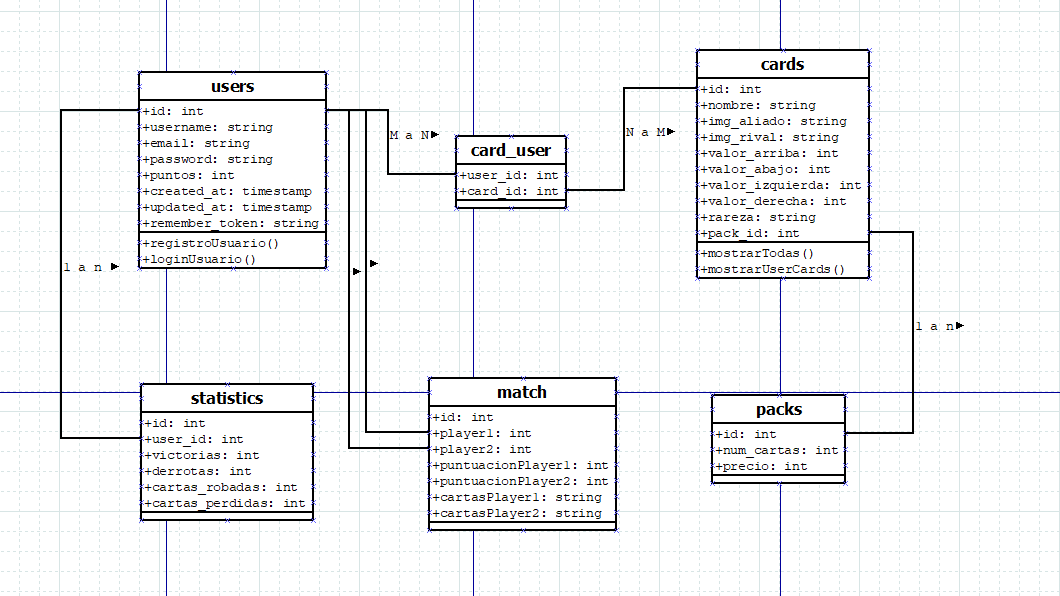
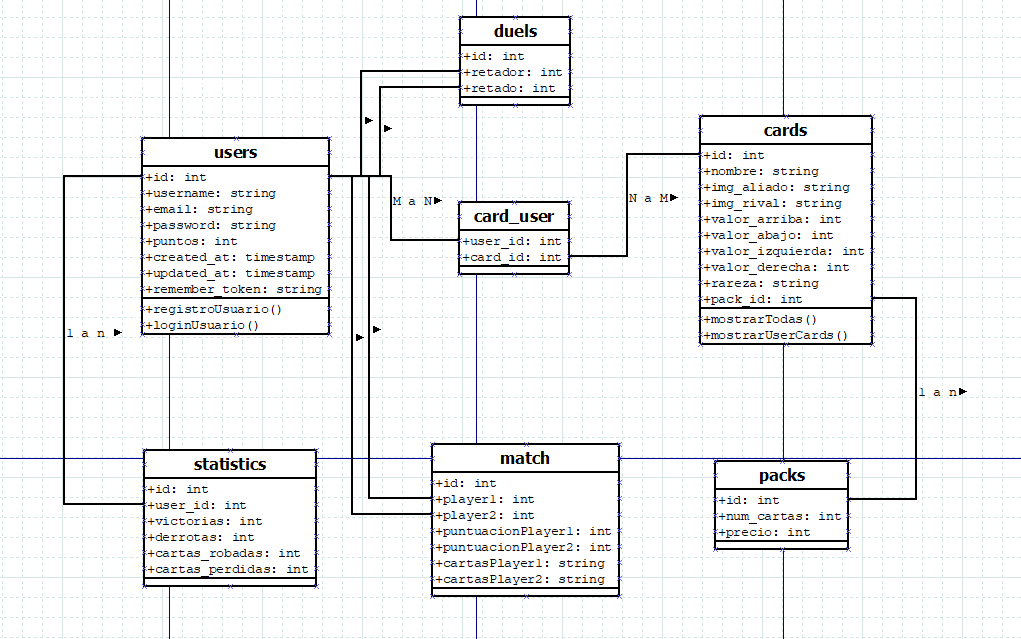
create duel

diff --git a/triple-triad-kh-angular/src/app/app.component.html b/triple-triad-kh-angular/src/app/app.component.html
@@ -4,7 +4,7 @@
     <nav class="navbar navbar-expand-lg navbar-dark navbar-survival101">
         <div class="container-fluid">
             <a class="navbar-brand" href="#">
-                <img src="../assets/images/tt_logo.png" width="45%" [routerLink]="['']" style="cursor: pointer;">
+                <img src="../assets/images/tt_logo.png" width="160px" [routerLink]="['']" style="cursor: pointer;">
             </a>
             <button class="navbar-toggler" type="button" data-toggle="collapse" data-target="#navbarColor02" aria-controls="navbarColor02" aria-expanded="false" aria-label="Toggle navigation">
             <span class="navbar-toggler-icon"></span>
@@ -12,39 +12,39 @@
 
             <div class="collapse navbar-collapse" id="navbarColor02">
                 <ul class="navbar-nav mr-auto">
-                    <li class="nav-item active">
+                    <li class="nav-item active enlace">
                         <a class="nav-link" [routerLink]="['']">Inicio<span class="sr-only">(current)</span></a>
                     </li>
-                    <li class="nav-item">
-                        <a class="nav-link" *ngIf="identity" [routerLink]="['cartas']">Cartas</a>
+                    <li class="nav-item enlace" *ngIf="identity">
+                        <a class="nav-link" [routerLink]="['cartas']">Cartas</a>
                     </li>
-                    <li class="nav-item">
-                        <a class="nav-link" *ngIf="identity" href="#">Tienda</a>
+                    <li class="nav-item enlace" *ngIf="identity">
+                        <a class="nav-link" href="#">Tienda</a>
                     </li>
-                    <li class="nav-item">
+                    <li class="nav-item enlace">
                         <a class="nav-link" [routerLink]="['reglas']">Reglas</a>
                     </li>
                 </ul>
 
-                <ul class="navbar-nav mr-auto" *ngIf="!identity">
-                    <li class="nav-item">
+                <ul class="navbar-nav" *ngIf="!identity">
+                    <li class="nav-item enlace">
                         <a class="nav-link" [routerLink]="[ 'login'] ">Login</a>
                     </li>
-                    <li class="nav-item">
+                    <li class="nav-item enlace">
                         <a class="nav-link" [routerLink]="[ 'register']">Registro</a>
                     </li>
                 </ul>
 
-                <ul class="navbar-nav mr-auto" *ngIf="identity">
+                <ul class="navbar-nav" *ngIf="identity">
 
-                    <li class="nav-item">
+                    <li class="nav-item enlace2">
                         <a class="nav-link"><img src="../assets/images/sun.png" width="18px"> {{identity.puntos}}</a>
                     </li>
 
-                    <li class="nav-item">
+                    <li class="nav-item enlace2">
                         <a class="nav-link" href="#">{{identity.username}}</a>
                     </li>
-                    <li class="nav-item">
+                    <li class="nav-item enlace">
                         <a class="nav-link" [routerLink]="[ 'logout', 1]" onclick="return confirm('¿Seguro que deseas salir?')">
                             Salir
                         </a>

diff --git a/triple-triad-kh-angular/src/app/components/new-game/new-game.component.ts b/triple-triad-kh-angular/src/app/components/new-game/new-game.component.ts
@@ -1,6 +1,7 @@
 import { Component, OnInit } from '@angular/core';
 import { Router, ActivatedRoute, Params } from '@angular/router';
 import { User } from '../../models/user';
+import { Duel } from '../../models/duel';
 import  { UserService } from '../../services/user.service';
 import  { CardService } from '../../services/card.service';
 
@@ -16,6 +17,8 @@ export class NewGameComponent implements OnInit {
   public token;
   public usersList: Array<any>;
   public fiveCards: Array<any>;
+  public selectedObj;
+  public duel: Duel;
 
   constructor(
     private _route: ActivatedRoute,
@@ -26,9 +29,11 @@ export class NewGameComponent implements OnInit {
   ) {
     this.identity = this._userService.getIdentity();
     this.token = this._userService.getToken();
+    this.duel = new Duel (1, 1, 1);
    }
 
   ngOnInit(): void {
+    this.selectedObj = 'Elija un adversario';
     if (this.identity == null) {
       this._router.navigate(['/login']);
     } else {
@@ -37,33 +42,52 @@ export class NewGameComponent implements OnInit {
         (response) => {
           if (response.status == 'success') {
             this.usersList = response.users;
+
           }
         },
         (error) => {
           console.log(error);
         }
-      );
-      
-      //Obtener cartas random para la partida
-      var id = this.identity.sub;
-
-      this._cardService.getFiveRandomCards(id).subscribe(
-        (response) => {
-          if (response.status == 'success') {
-            this.fiveCards = response.fiveCards;
+        );
+        
+        //Obtener cartas random para la partida
+        var id = this.identity.sub;
+        
+        this._cardService.getFiveRandomCards(id).subscribe(
+          (response) => {
+            if (response.status == 'success') {
+              this.fiveCards = response.fiveCards;
+            }
+          },
+          (error) => {
+            console.log(error);
           }
-        },
-        (error) => {
-          console.log(error);
+          );
+          
         }
-      );
+      }
       
-    }
-
-
-
-
-
+      onChangeObj(newObj) {
+        this.selectedObj = newObj;
   }
+
+  retar(){
+    var retador = this.identity.sub;
+    var retado = this.selectedObj.id;
+
+    this.duel.retador = retador;
+    this.duel.retado = retado;
+    this._userService.createDuel(this.duel).subscribe(
+      (response) => {
+        if (response.status == 'success') {
+          console.log("victory");
+        }
+      },
+      (error) => {
+        console.log(error);
+      }
+    );
+  }
+
 
 }

diff --git a/triple-triad-kh-angular/src/app/services/user.service.ts b/triple-triad-kh-angular/src/app/services/user.service.ts
@@ -1,8 +1,9 @@
 import { Injectable } from '@angular/core';
-import { HttpClient, HttpHeaders } from '@angular/common/http';
+import { HttpClient, HttpHeaders, HttpParams } from '@angular/common/http';
 import { Observable } from 'rxjs';
 import { GLOBAL } from './global';
 import { User } from '../models/user';
+import { Duel } from '../models/duel';
 
 @Injectable()
 export class UserService{
@@ -65,5 +66,26 @@ export class UserService{
         let headers = new HttpHeaders().set('Content-Type', 'application/x-www-form-urlencoded');
         
         return this._http.get(this.url + 'usersList', {headers: headers});
+    }
+
+    createDuel(duel): Observable<any>{
+        
+        let json1 = JSON.stringify(duel.retador);
+        let json2 = JSON.stringify(duel.retado);
+        let retador = json1;
+        let retado = json2;
+
+        
+        let headers = new HttpHeaders().set('Content-Type', 'application/x-www-form-urlencoded');
+
+        let params = { retador, retado };
+        //let params = "json="+retador;
+
+        /* let params = new HttpParams();
+
+        params = params.append('retador', retador);
+        params = params.append('retado', retado); */
+
+        return this._http.post(this.url+'createDuel', duel,  {headers: headers});
     }
 }

diff --git a/triple-triad-kh-angular/src/app/components/new-game/new-game.component.html b/triple-triad-kh-angular/src/app/components/new-game/new-game.component.html
@@ -33,12 +33,16 @@
                     <img src="../../../assets/images/nv10_azul/{{card.img_aliado}}" style="margin-bottom: 14px;" width="14%" class="img-shadow-1"></span>
                 </span>
 
-                <form>
-                    <select class="minimal" id="select">
-                        <option selected value="hide">Elija un adversario</option>
-                            <option *ngFor="let user of usersList">{{user.username}}</option>
+                <div>
+                    <select class="minimal" id="select" [ngModel]="selectedObj" (ngModelChange)="onChangeObj($event)">
+                        <option selected>Elija un adversario</option>
+                        <option [ngValue]="user" *ngFor="let user of usersList">{{user.username}}</option>
                     </select>
-                </form>
+                    <hr>
+
+                    <input type="button" value="Enviar reto" class="btn btn-warning" *ngIf="selectedObj == 'Elija un adversario'" disabled>
+                    <input (click)="retar()" type="button" value="Enviar reto" class="btn btn-warning" *ngIf="selectedObj != 'Elija un adversario'">
+                </div>
             </div>
         </div>
 

diff --git a/triple-triad-kh-angular/src/app/components/login/login.component.ts b/triple-triad-kh-angular/src/app/components/login/login.component.ts
@@ -48,7 +48,7 @@ export class LoginComponent implements OnInit {
                             localStorage.setItem('identity', JSON.stringify(this.identity));
     
                             //Redireccion
-                            this._router.navigate(['home']);
+                            this._router.navigate(['/']);
                         },
                         error => {
                             console.log(<any>error);

diff --git a/triple-triad-kh-angular/src/app/app.component.css b/triple-triad-kh-angular/src/app/app.component.css
@@ -83,3 +83,14 @@
     border: #ccc 1px solid;
     margin-right: 5px;
 }
+
+.enlace,
+.enlace2 {
+    padding: 20px;
+    user-select: none;
+}
+
+.enlace:hover {
+    background-color: rgb(37, 95, 153);
+    border-radius: 25px;
+}

diff --git a/triple-triad-kh-angular/src/app/components/register/register.component.ts b/triple-triad-kh-angular/src/app/components/register/register.component.ts
@@ -24,7 +24,6 @@ export class RegisterComponent implements OnInit {
     }
 
     ngOnInit(){
-        console.log('register.component cargado correctamente');
     }
 
     onSubmit(form){

diff --git a/triple-triad-kh-angular/src/app/models/duel.ts b/triple-triad-kh-angular/src/app/models/duel.ts
@@ -1,0 +1,7 @@
+export class Duel{
+    constructor(
+        public id: number,
+        public retador: number,
+        public retado: number,
+    ){}
+}

diff --git a/app/Http/Controllers/UserController.php b/app/Http/Controllers/UserController.php
@@ -8,6 +8,7 @@ use Illuminate\Support\Facades\DB;
 
 use App\User;
 use App\Card;
+use App\Duel;
 use App\Helpers\JwtAuth;
 
 class UserController extends Controller
@@ -124,5 +125,28 @@ class UserController extends Controller
             'users' => $users,
             'status' => 'success'
         ), 200);
+    }
+
+    public function createDuel(Request $request){
+        header('Access-Control-Allow-Origin: *');
+        header('Access-Control-Allow-Headers: Access-Control-Allow-Headers, Access-Control-Allow-Methods');
+
+        $inputJSON = file_get_contents('php://input');
+        $params = json_decode( $inputJSON, false );
+                
+        $duel = new Duel();
+        
+        $duel->retador = $params->retador;
+        $duel->retado = $params->retado;
+        
+        $duel->save();
+
+        $data = array(
+            'status' => 'success',
+            'code' => 200,
+            'message' => 'Duelo creado correctamente'
+        );
+
+        return response()->json($data, 200);
     }
 }

diff --git a/routes/web.php b/routes/web.php
@@ -24,3 +24,4 @@ Route::resource('/cards', 'CardController');
 Route::post('/cardsUser', 'CardController@cardsUser');
 Route::get('/usersList', 'UserController@getAllUsers');
 Route::post('/fiveRandomCards', 'CardController@fiveRandomCards');
+Route::post('/createDuel', 'UserController@createDuel');

diff --git a/app/Duel.php b/app/Duel.php
@@ -1,0 +1,14 @@
+<?php
+
+namespace App;
+
+use Illuminate\Database\Eloquent\Model;
+
+class Duel extends Model
+{
+    protected $table = 'duels';
+
+    public function users(){
+        return $this->hasMany(User::class);
+    }
+}
